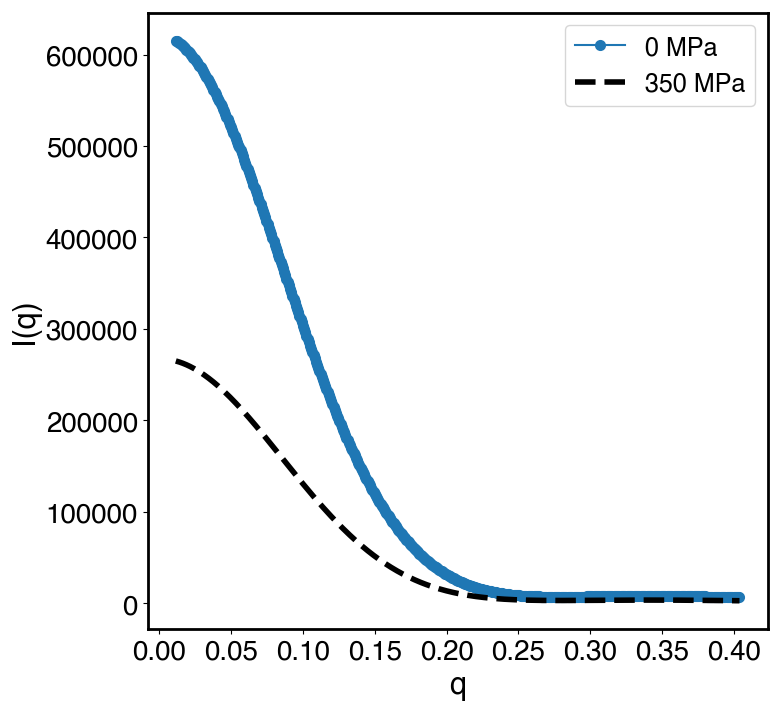
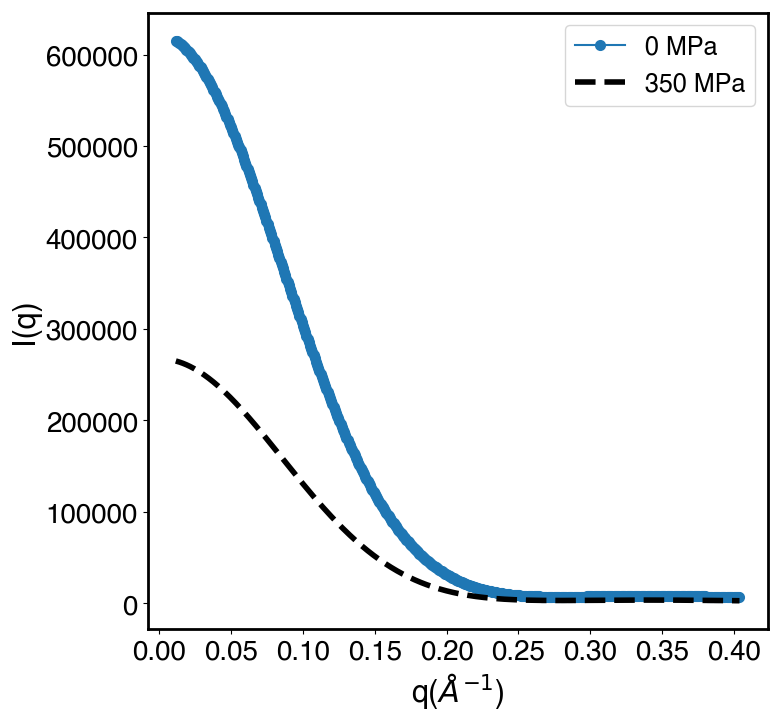
Cleaned plot labels up

diff --git a/SAXSProf.py b/SAXSProf.py
@@ -185,7 +185,7 @@ I = saxs1.I_of_q_variable_contrast(saxs1.c, saxs1.mw, saxs1.buf_model_q, rho)
 err_data.plot_S2(saxs1.buf_model_q, I[0], I[6], plotlabel1= '0 MPa',
                  plotlabel2='350 MPa',
                  savelabel='Scattering_Curve_AtMultiplePressures',
-                 xlabel='q', ylabel='I(q)')
+                 xlabel='q($\\AA^{-1}$)', ylabel='I(q)')
 
 ######################################################
 
